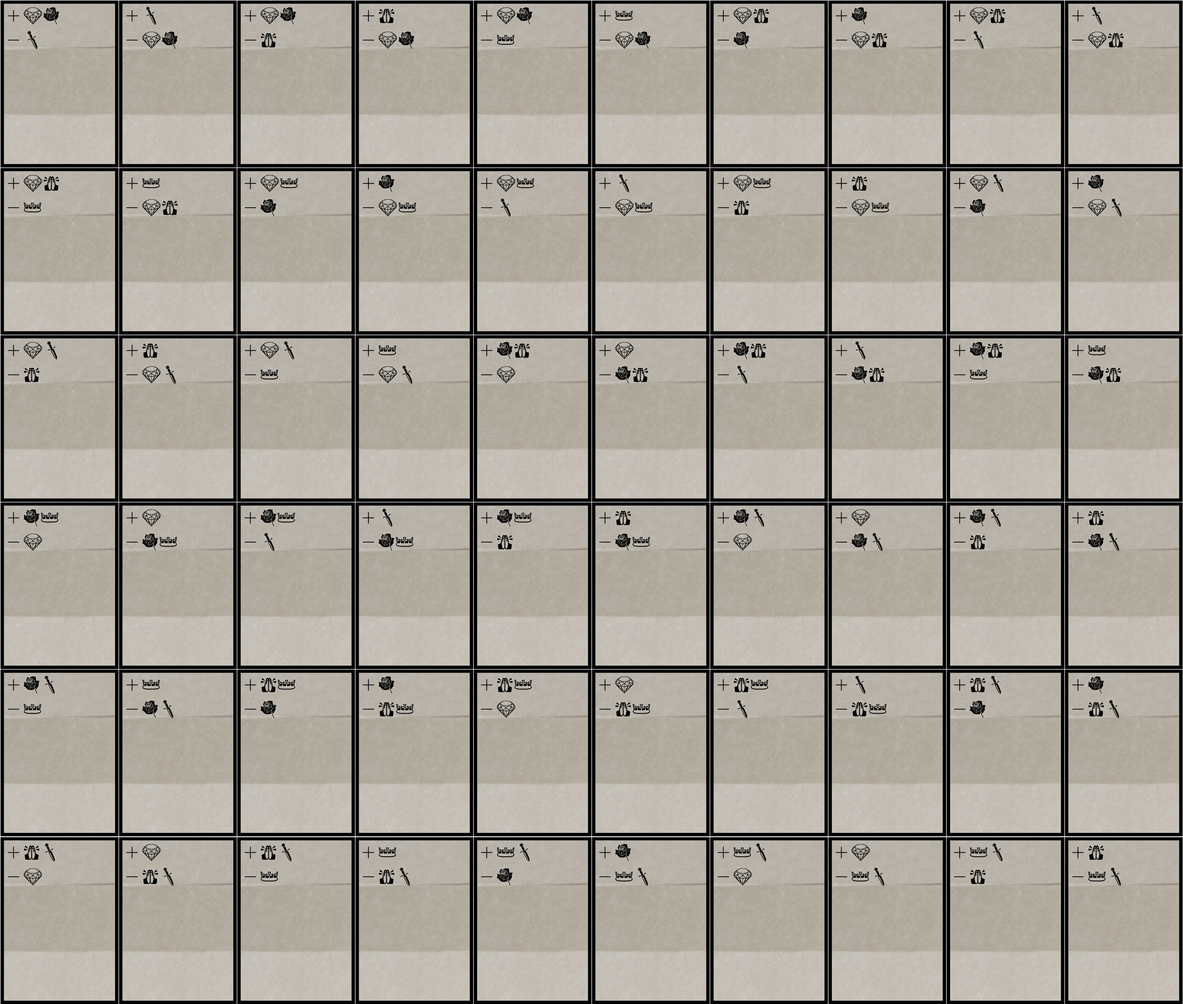
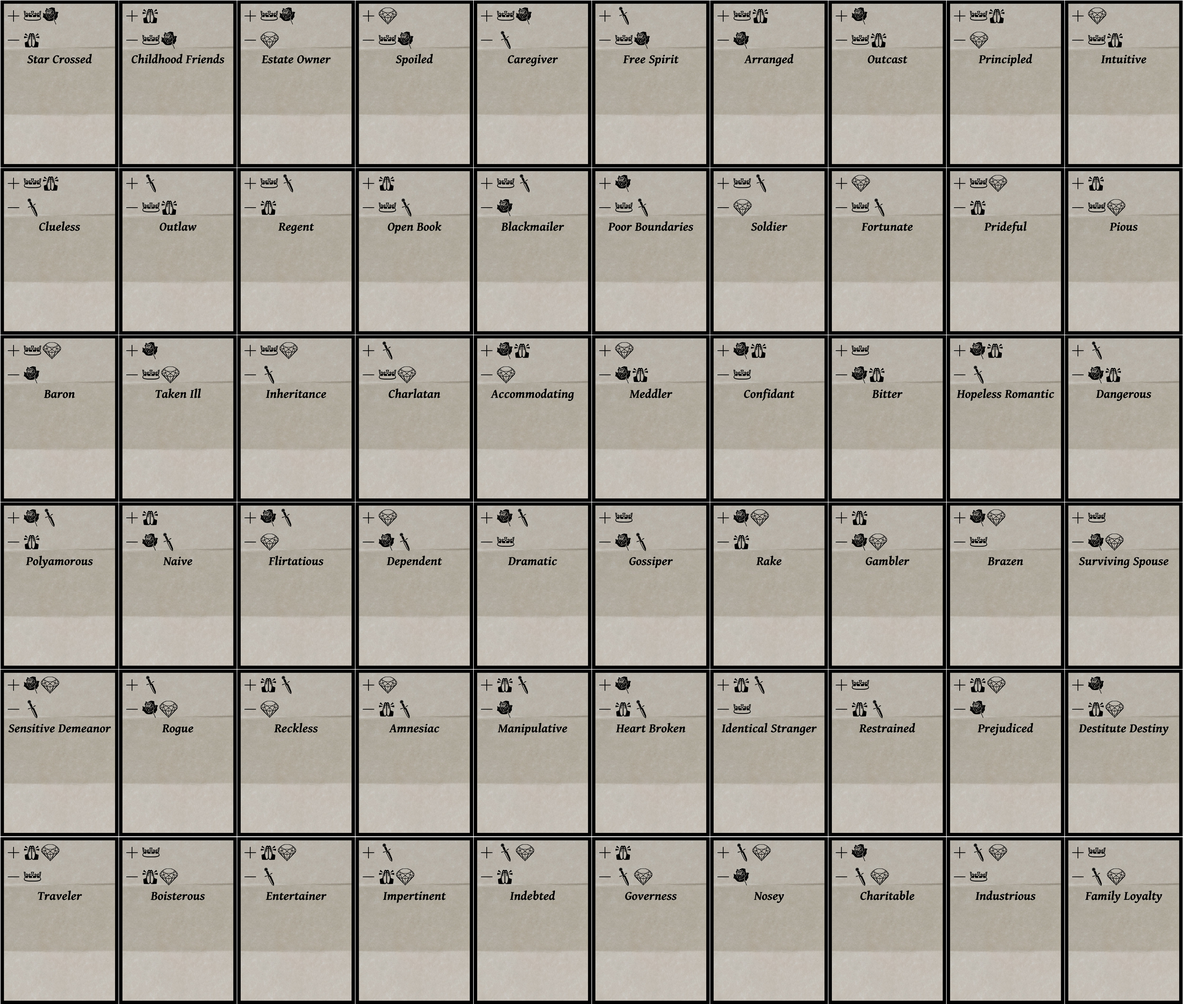
Updated card builders to use csv with card titles.

diff --git a/cardGenerator/ttsDeckMaker.py b/cardGenerator/ttsDeckMaker.py
@@ -7,7 +7,7 @@ base = {
     'deckID': 1,
     'name': 'Desire',
     'description': 'Win if you marry a player with a sum of symbols matching these!\\n\\n{}'.format(traitDescription),
-    'face': 'http://cloud-3.steamusercontent.com/ugc/1656728318303212718/D99C13F05CEDC7DEEFFF72A19EA4F8E86EB2EE93/',
+    'face': 'http://cloud-3.steamusercontent.com/ugc/1763689859393699974/51C97E99E62B598DA664F4E4EDC3F0FCAAFEE547/',
     'back': 'http://cloud-3.steamusercontent.com/ugc/1656728318303082524/9DB5207068847C958622BEC0325573DBA445BC72/'
 }
 
@@ -16,112 +16,112 @@ decks = [
         'deckID': 2,
         'name': 'Black Dog Trait',
         'description': traitDescription,
-        'face': 'http://cloud-3.steamusercontent.com/ugc/1656728318303213812/E370DBF25C57D71EF792EE78DADF9912E09119AA/',
+        'face': 'http://cloud-3.steamusercontent.com/ugc/1763689859393697408/D4054C3D1C93954CE4F36135C74CB4C6B5E1E5A8/',
         'back': 'http://cloud-3.steamusercontent.com/ugc/1656728318303124139/3386D885EC1630D77C835EA6C49FA6B6C64C8952/'
     },
     {
         'deckID': 3,
         'name': 'Black Dog Proposal Trait',
         'description': proposalDescription.format('Black Dog'),
-        'face': 'http://cloud-3.steamusercontent.com/ugc/1656728318303213812/E370DBF25C57D71EF792EE78DADF9912E09119AA/',
+        'face': 'http://cloud-3.steamusercontent.com/ugc/1763689859393697408/D4054C3D1C93954CE4F36135C74CB4C6B5E1E5A8/',
         'back': 'http://cloud-3.steamusercontent.com/ugc/1656728318303095848/0A7AFF3697B60BA7CA97B64DD6C409BE9083F83A/'
     },
     {
         'deckID': 4,
         'name': 'Blue Lion Trait',
         'description': traitDescription,
-        'face': 'http://cloud-3.steamusercontent.com/ugc/1656728318303214638/96A9A0B51C7213048D54E199759674AF031AA8BB/',
+        'face': 'http://cloud-3.steamusercontent.com/ugc/1763689859393699506/5C706D46E1AA1292BFB6D01EF85F669B765A751B/',
         'back': 'http://cloud-3.steamusercontent.com/ugc/1656728318303214207/F6C545671C5D9E26A8587061ADE177DD0240D2B0/'
     },
     {
         'deckID': 5,
         'name': 'Blue Lion Proposal Trait',
         'description': proposalDescription.format('Blue Lion'),
-        'face': 'http://cloud-3.steamusercontent.com/ugc/1656728318303214638/96A9A0B51C7213048D54E199759674AF031AA8BB/',
+        'face': 'http://cloud-3.steamusercontent.com/ugc/1763689859393699506/5C706D46E1AA1292BFB6D01EF85F669B765A751B/',
         'back': 'http://cloud-3.steamusercontent.com/ugc/1656728318303217985/F8CD11616ADF2BD97534E88EC4AACCD547120743/'
     },
     {
         'deckID': 6,
         'name': 'Green Tree Trait',
         'description': traitDescription,
-        'face': 'http://cloud-3.steamusercontent.com/ugc/1656728318303220341/67E170C5714CBFD8C441BE303C48F50A1AB3620D/',
+        'face': 'http://cloud-3.steamusercontent.com/ugc/1763689859393700435/8C59B053AB528A33447D792B6CE67A538F675F08/',
         'back': 'http://cloud-3.steamusercontent.com/ugc/1656728318303219676/E43B426C0EC6E5C4828774496FA767B4D9FD2810/'
     },
     {
         'deckID': 7,
         'name': 'Green Tree Proposal Trait',
         'description': proposalDescription.format('Green Tree'),
-        'face': 'http://cloud-3.steamusercontent.com/ugc/1656728318303220341/67E170C5714CBFD8C441BE303C48F50A1AB3620D/',
+        'face': 'http://cloud-3.steamusercontent.com/ugc/1763689859393700435/8C59B053AB528A33447D792B6CE67A538F675F08/',
         'back': 'http://cloud-3.steamusercontent.com/ugc/1656728318303219997/6B4832110703E9D9AFDA8F0460CE849B90C170BE/'
     },
     {
         'deckID': 8,
         'name': 'Cyan Shield Trait',
         'description': traitDescription,
-        'face': 'http://cloud-3.steamusercontent.com/ugc/1656728318303224260/38901D3C8F3D4F324B174E6350DAB216F2E0B620/',
+        'face': 'http://cloud-3.steamusercontent.com/ugc/1763689859393703689/72CDF47D88C17CD8479B2D4260A53B2F90C322EB/',
         'back': 'http://cloud-3.steamusercontent.com/ugc/1656728318303223441/26EBC8436FCDFF59041E702E58506D1E068985AE/'
     },
     {
         'deckID': 9,
         'name': 'Cyan Shield Proposal Trait',
         'description': proposalDescription.format('Cyan Shield'),
-        'face': 'http://cloud-3.steamusercontent.com/ugc/1656728318303224260/38901D3C8F3D4F324B174E6350DAB216F2E0B620/',
+        'face': 'http://cloud-3.steamusercontent.com/ugc/1763689859393703689/72CDF47D88C17CD8479B2D4260A53B2F90C322EB/',
         'back': 'http://cloud-3.steamusercontent.com/ugc/1656728318303223836/3806BBC397E987E184F11B5443CE7BEE64EA3527/'
     },
     {
         'deckID': 10,
         'name': 'Yellow Sun Trait',
         'description': traitDescription,
-        'face': 'http://cloud-3.steamusercontent.com/ugc/1656728318303226961/032D0B279254B576AB087B7D112570245B19C621/',
+        'face': 'http://cloud-3.steamusercontent.com/ugc/1763689859393707260/3E19AC113215C7A576CE5AED09F2886ED10839D0/',
         'back': 'http://cloud-3.steamusercontent.com/ugc/1656728318303226151/8173A6620818B8C3A202227FF9B6198F64A1AA13/'
     },
     {
         'deckID': 11,
         'name': 'Yellow Sun Proposal Trait',
         'description': proposalDescription.format('Yellow Sun'),
-        'face': 'http://cloud-3.steamusercontent.com/ugc/1656728318303226961/032D0B279254B576AB087B7D112570245B19C621/',
+        'face': 'http://cloud-3.steamusercontent.com/ugc/1763689859393707260/3E19AC113215C7A576CE5AED09F2886ED10839D0/',
         'back': 'http://cloud-3.steamusercontent.com/ugc/1656728318303226537/BD2BBB72ADE5A3E06909B54A1971B9696C389719/'
     },
     {
         'deckID': 12,
         'name': 'Pink Horn Trait',
         'description': traitDescription,
-        'face': 'http://cloud-3.steamusercontent.com/ugc/1656728318303221584/A39826327DFB806200ECC059D8B668F7E784C390/',
+        'face': 'http://cloud-3.steamusercontent.com/ugc/1763689859393701452/79B6186D781DAD07013F3891AE71400D5BC8E7B1/',
         'back': 'http://cloud-3.steamusercontent.com/ugc/1656728318303220938/68722CE40FB18FE8CFAC5D06AB8E00D53BCA4A33/'
     },
     {
         'deckID': 13,
         'name': 'Pink Horn Proposal Trait',
         'description': proposalDescription.format('Pink Horn'),
-        'face': 'http://cloud-3.steamusercontent.com/ugc/1656728318303221584/A39826327DFB806200ECC059D8B668F7E784C390/',
+        'face': 'http://cloud-3.steamusercontent.com/ugc/1763689859393701452/79B6186D781DAD07013F3891AE71400D5BC8E7B1/',
         'back': 'http://cloud-3.steamusercontent.com/ugc/1656728318303221269/266EE39298790D5C9FC6BA07628D5948D45A4C56/'
     },
     {
         'deckID': 14,
         'name': 'Purple Clover Trait',
         'description': traitDescription,
-        'face': 'http://cloud-3.steamusercontent.com/ugc/1656728318303222974/4626FF287EFE66E5BF36120DD1CD57FACF0CC354/',
+        'face': 'http://cloud-3.steamusercontent.com/ugc/1763689859393702659/3F0C2D423A2DA8FEDDD7A9862BADCF8F24E516A6/',
         'back': 'http://cloud-3.steamusercontent.com/ugc/1656728318303222134/F7EA4278B2C0EC7640592E7804317356071B0788/'
     },
     {
         'deckID': 15,
         'name': 'Purple Clover Proposal Trait',
         'description': proposalDescription.format('Purple Clover'),
-        'face': 'http://cloud-3.steamusercontent.com/ugc/1656728318303222974/4626FF287EFE66E5BF36120DD1CD57FACF0CC354/',
+        'face': 'http://cloud-3.steamusercontent.com/ugc/1763689859393702659/3F0C2D423A2DA8FEDDD7A9862BADCF8F24E516A6/',
         'back': 'http://cloud-3.steamusercontent.com/ugc/1656728318303222594/156898DB26CD619099155063CE19F4987CD3365C/'
     },
     {
         'deckID': 16,
         'name': 'White Horse Trait',
         'description': traitDescription,
-        'face': 'http://cloud-3.steamusercontent.com/ugc/1656728318303225724/1F8FBF3EB8BB2B337A755EC585401D29CF9AA7C3/',
+        'face': 'http://cloud-3.steamusercontent.com/ugc/1763689859393704895/4A41EA58ED39FD346BF01C002B50D39F6BC2DA60/',
         'back': 'http://cloud-3.steamusercontent.com/ugc/1656728318303224897/771F94BB2FA229907293E17D9AC8310D6617C6B0/'
     },
     {
         'deckID': 17,
         'name': 'White Horse Proposal Trait',
         'description': proposalDescription.format('White Horse'),
-        'face': 'http://cloud-3.steamusercontent.com/ugc/1656728318303225724/1F8FBF3EB8BB2B337A755EC585401D29CF9AA7C3/',
+        'face': 'http://cloud-3.steamusercontent.com/ugc/1763689859393704895/4A41EA58ED39FD346BF01C002B50D39F6BC2DA60/',
         'back': 'http://cloud-3.steamusercontent.com/ugc/1656728318303225317/CF5F1D6DD0715981594F7B5B7147442146FB2C63/'
     }
 ]
@@ -178,7 +178,7 @@ ttsObject = '''{{
       "DeckIDs": [ 100, 101, 102, 103, 104, 105, 106, 107, 108, 109, 110, 111, 112, 113, 114, 115, 116, 117, 118, 119, 120, 121, 122, 123, 124, 125, 126, 127, 128, 139, 130, 131, 132, 133, 134, 135, 136, 137, 138, 139, 140, 141, 142, 143, 144, 145, 146, 147, 148, 149, 150, 151, 152, 153, 154, 155, 156, 157, 158, 159 ],
       "CustomDeck": {{
         "1": {{
-          "FaceURL": "http://cloud-3.steamusercontent.com/ugc/1656728318303212718/D99C13F05CEDC7DEEFFF72A19EA4F8E86EB2EE93/",
+          "FaceURL": "http://cloud-3.steamusercontent.com/ugc/1763689859393699974/51C97E99E62B598DA664F4E4EDC3F0FCAAFEE547/",
           "BackURL": "http://cloud-3.steamusercontent.com/ugc/1656728318303082524/9DB5207068847C958622BEC0325573DBA445BC72/",
           "NumWidth": 10,
           "NumHeight": 6,

diff --git a/cardGenerator/cardGenerator.py b/cardGenerator/cardGenerator.py
@@ -1,3 +1,4 @@
+import csv
 from itertools import combinations
 from math import floor, ceil
 
@@ -62,7 +63,7 @@ html = '''<html>
 </body>
 '''
 
-crestCards = ['Ring', 'Mail', 'Address']
+crestCards = ['Ring']
 
 crestSection = '''
         #{0} {{
@@ -71,27 +72,31 @@ crestSection = '''
 '''
 
 styles = {
-    'desires': '''
-          background:url("resources/traitFront.jpg") no-repeat center center ;
-          vertical-align: top;
-          text-align: left;
-          font-size: 72;
-        }}
-        ''',
-
     'traits': '''
           background-color: {};
         }}
 
-        div {{
-          width: 94%;
-          height: 96%;
+        .container {{
+          width: {};
+          height: {};
           margin: auto;
 
           background:url("resources/traitFront.jpg") no-repeat center center ;
+        }}
+
+        .symbols {{
           vertical-align: top;
           text-align: left;
           font-size: 72;
+        }}
+
+        .title {{
+          font-family: Gentium Book Basic;
+          font-style: italic;
+          font-weight: bold;
+          vertical-align: top;
+          text-align: center;
+          font-size: 48;
         }}
         ''',
 
@@ -146,31 +151,31 @@ def writeCards(originalCards, name, style=None, sheetColumns=10, sheetRows=5):
     for pageNum in range(len(cards) // sheetCount):
         pages.append(page.format(*cards[pageNum * sheetCount:((pageNum + 1) * sheetCount)]))
 
-    with open('{}.html'.format(name), 'w') as f:
+    with open('{}.html'.format(name), 'w', encoding="utf-8") as f:
         f.write(html.format(floor(100 / sheetColumns), floor(100 / sheetRows), style, ''.join(pages)))
-
 
 # Generate traits deck
 cards = []
 
-traitPlus = '<div>{plus}{{}}{{}}<br>{minus}{{}}</div>'.format(plus=plus, minus=minus)
-traitMinus = '<div>{plus}{{}}<br>{minus}{{}}{{}}</div>'.format(plus=plus, minus=minus)
+traitCard = '''<div class="container">
+    <div class="symbols">{plus}{{}}<br>{minus}{{}}</div>
+    <div class="title">{{}}</div>
+</div>'''.format(plus=plus, minus=minus)
 
-# Generate combinations
-for pairs in combinations(suits, 2):
-    for spare in suits.difference(set(pairs)):
-        cards.append(traitPlus.format(pairs[0], pairs[1], spare))
-        cards.append(traitMinus.format(spare, pairs[0], pairs[1]))
+# Convert CSV to cards
+with open('resources/Persuasion - Trait Effects.csv', 'r', encoding="utf-8") as input:
+    cardDetails = csv.DictReader(input)
+    for row in cardDetails:
+        cards.append(traitCard.format(row['＋'], row['－'], row['Name']))
 
 # Generate desires without border
-writeCards(cards, 'desires')
+writeCards(cards, 'traits-desires', style=styles['traits'].format('None', '100%', '100%'))
 
 # Generate trait cards with borders for each player
 for color, hex in crests.items():
-    style = styles['traits'].format(hex)
+    writeCards(cards, 'traits-{}'.format(color), style=styles['traits'].format(hex, '94%', '96%'))
 
-    writeCards(cards, 'traits-{}'.format(color), style=style)
-
+# Generate suited one offs (Rings)
 cards = ['<div id="{}"></div>'.format(color) for color in crests.keys()]
 
 for crestType in crestCards:
@@ -179,9 +184,9 @@ for crestType in crestCards:
         styleSections.append(crestSection.format(color, crestType))
 
     style = styles['crests'].format(''.join(styleSections))
-
     writeCards(cards, crestType, style=style)
 
+# Generate symbol markers
 for modifier in [(plus, 'plusSide'), (minus, 'minusSide')]:
     cards = []
     for i, suit in enumerate(suits):
